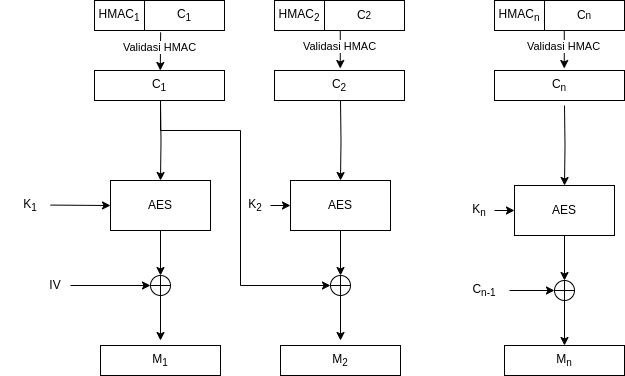
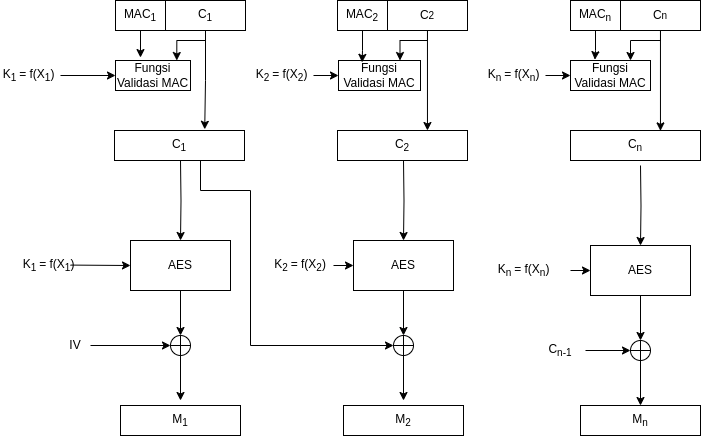
revisi bab 2 dan bab 3 sebelum sidang

diff --git a/src/chapters/chapter-2.tex b/src/chapters/chapter-2.tex
@@ -105,7 +105,7 @@ Menurut \textcite{munir2019}, Algoritma \emph{cipher} blok merupakan algoritma k
   Sumber: \textcite{munir2019}
 \end{figure}
 
-Salah satu bentuk mode blok yang sering digunakan dalam melakukan enkripsi adalah CBC. Menurut \textcite{munir2019}, mode enkripsi CBC menerapkan sistem enkripsi dengan cara memanfaatkan umpan balik dari hasil enkripsi blok sebelumnya. Nilai blok yang akan dienkripsi pertama-tama akan dilakukan XOR terlebih dahulu dengan umpan balik tersebut. Setelah itu, hasil XOR akan dienkripsi dengan kunci $K$. Nilai umpan balik awal disebut dengan $IV$. Nilai $IV$ tidak perlu dirahasiakan, tetapi perlu dibuat secara acak saat hendak melakukan proses enkripsi. Ilustrasi proses enkripsi menggunakan blok ini diilustrasikan pada figur \ref{fig:crypto.cbc.encrypt}, sedangkan ilustrasi proses dekripsi digambarkan pada figur \ref{fig:crypto.cbc.decrypt}. Secara matematis, proses ini ditunjukan pada persamaan \ref{eq:crypto.cbc.enc}.
+Salah satu bentuk mode blok yang sering digunakan dalam melakukan enkripsi adalah CBC. Menurut \textcite{munir2019}, mode enkripsi CBC menerapkan sistem enkripsi dengan cara memanfaatkan umpan balik dari hasil enkripsi blok sebelumnya. Nilai blok yang akan dienkripsi pertama-tama akan dilakukan XOR terlebih dahulu dengan umpan balik tersebut. Setelah itu, hasil XOR akan dienkripsi dengan kunci $K$. Nilai umpan balik awal disebut dengan $IV$. Nilai $IV$ tidak perlu dirahasiakan, tetapi perlu dibuat secara acak saat hendak melakukan proses enkripsi. Ilustrasi proses enkripsi menggunakan blok ini diilustrasikan pada gambar \ref{fig:crypto.cbc.encrypt}, sedangkan ilustrasi proses dekripsi digambarkan pada gambar \ref{fig:crypto.cbc.decrypt}. Secara matematis, proses ini ditunjukan pada persamaan \ref{eq:crypto.cbc.enc}.
 
 \begin{equation}
   \label{eq:crypto.cbc.enc}
@@ -118,7 +118,7 @@ Salah satu bentuk mode blok yang sering digunakan dalam melakukan enkripsi adala
 
 Menurut \textcite{munir2019}, terdapat keuntungan saat menggunakan mode blok CBC dalam melakukan enkripsi. Keuntungan utamanya adalah hasil enkripsi akan memberikan hasil cipherteks yang berbeda untuk plainteks yang sama. Hal ini disebabkan adanya persebaran informasi antar tiap blok sehingga hasil enkripsi kedua blok tersebut dapat berbeda. Akan tetapi, kelemahan utama mode blok ini adalah perubahan satu bit pada cipherteks dapat membalikan satu bit pada blok setelahnya. Hal ini dapat digunakan pihak lawan untuk melakukan \emph{bit-flip attack} dengan memanfaatkan sifat ini. 
 
-Menurut \textcite{munir2019}, algoritma kunci publik (atau bisa disebut algoritma kunci nirsimetris) merupakan algoritma enkripsi yang menggunakan kunci yang berbeda pada saat melakukan proses enkripsi dan juga proses dekripsi. Pada saat melakukan komunikasi menggunakan algoritma ini, pihak yang terlibat harus memiliki satu buah kunci, yaitu kunci publik dan kunci privat. Pengirim pesan akan menggunakan kunci publik untuk mengunci pesan. Akan tetapi, penerima menggunakan kunci privat miliknya untuk membuka pesan. Dengan menggunakan algoritma ini, hanya penerima pesan yang dapat membuka pesan. Ilustrasi terkait enkripsi memanfaatkan algoritma ini terdapat pada Gambar \ref{fig:crypto.asymetric}. Beberapa contoh algoritma enkripsi kunci publik adalah RSA, \emph{Elgamal}, dan DSA.
+Menurut \textcite{munir2019}, algoritma kunci publik (atau bisa disebut algoritma kunci nirsimetris) merupakan algoritma enkripsi yang menggunakan kunci yang berbeda pada saat melakukan proses enkripsi dan juga proses dekripsi. Pada saat melakukan komunikasi menggunakan algoritma ini, pihak yang terlibat harus memiliki satu buah kunci, yaitu kunci publik dan kunci privat. Pengirim pesan akan menggunakan kunci publik untuk mengunci pesan. Akan tetapi, penerima menggunakan kunci privat miliknya untuk membuka pesan. Dengan menggunakan algoritma ini, hanya penerima pesan yang dapat membuka pesan. Ilustrasi terkait enkripsi memanfaatkan algoritma ini terdapat pada gambar \ref{fig:crypto.asymetric}. Beberapa contoh algoritma enkripsi kunci publik adalah RSA, \emph{Elgamal}, dan DSA.
 
 \begin{figure}[!h]
   \centering
@@ -195,6 +195,34 @@ Berdasarkan \textcite{boris2003}, terdapat tiga buah syarat sebuah sistem matema
 
 Menurut \textcite{munir2019}, Salah satu sifat yang dimiliki oleh sistem \emph{chaos} adalah ia bersifat deterministik. Selain itu, sistem chaos memiliki ketidakteraturan yang tinggi dalam menghasilkan nilai. SIfat yang paling penting adalah peka terhadap nilai awal. Semua sifat ini dapat memberikan sifat difusi pada algoritma kriptografi dikarenakan sistem chaos ini dapat menghilangkan hubungan statistik pada ciperteks.
 
+Terdapat berbagai contoh dari sistem \emph{chaos} yang telah didefinisikan pada berbagai sumber. Menurut \textcite{munir2019}, Salah satu contoh fungsi \emph{chaos} yang sederhana adalah sistem \emph{chaos} berbasiskan persamaan logistik. Persamaan logistik didefinisikan pada persamaan \ref{eq:chaos.logistic}.
+
+\begin{equation}
+  \label{eq:chaos.logistic}
+  X_{n+1} = r X_n (1 - X_n)
+\end{equation}
+
+Pada persamaan \ref{eq:chaos.logistic}, nilai $r$ menyatakan laju pertumbuhan. Nilai $r$ menentukan kemunculan sifat chaos dari persamaan logistik. Berdasarkan \textcite{munir2019}, fungsi logistik sepenuhnya memiliki sifat chaos saat $r = 4$. Hal ini dikarenakan proses \emph{bifurcation} sangat cepat terjadi. Fenomena \emph{bifurcation} merupakan fenomena saat fungsi terpecah menjadi dua sehingga fungsi akan terus berosilasi pada dua populasi nilai tersebut. Saat proses  \emph{bifurcation} terjadi sangat cepat, sifat dari sistem akan sulit sekali diprediksi. Oleh karena itu, hal ini sangat cocok bila dimanfaatkan sebagai CSRPNG berbasis sistem \emph{chaos}.
+
+Selain sistem \emph{chaos} berbasiskan persamaan logistik, terdapat sistem chaos memanfaatkan peta hénon. Berdasarkan \textcite{henon1976}, persamaan peta hénon didefinisikan sebagaimana persamaan \ref{eq:chaos.henon}.
+
+\begin{equation}
+  \label{eq:chaos.henon}
+  \begin{array}{l}   
+  X_{n+1} = Y_{n} + 1 - aX_{n}^2 \\
+  Y_{n+1} = bX_{n} 
+  \end{array}
+\end{equation}
+
+Menurut \textcite{aybar2013}, untuk nilai $b = 0.3$ dihasilkan peta \emph{bifurcation} yang ditunjukan pada gambar \ref{fig:henon.bifurcation}. gambar \ref{fig:henon.bifurcation} memperlihatkan bahwa saat nilai $a$ mendekati $1.2$, sifat \emph{chaos} terjadi. Hal ini terjadi dikarenakan proses \emph{bifurcation} terjadi sangat cepat sehingga muncul sifat \emph{chaos} pada sistem tersebut.
+
+\begin{figure}[!h]
+  \centering
+  \includegraphics[width=\textwidth]{chapters/res/chapter-2/img/henon.bifurcation.png}
+  \caption{Diagram \emph{bifurcation} pada peta hénon dengan nilai $0.2 \ge a \ge 1.2$ dan $b = 0.3$} \label{fig:henon.bifurcation}
+  Sumber: \textcite{aybar2013}
+\end{figure}
+
 Menurut \textcite{munir2019}, untuk membangkitkan nilai bilangan bulat, sistem \emph{chaos} haruslah dilakukan konversi menuju bilangan bulat. Salah satu fungsi yang dapat digunakan dalam melakukan konversi ini dinyatakan pada persamaan \ref{eq:chaos.linearization}.
 
 \begin{equation}
@@ -214,13 +242,13 @@ Menurut \textcite{munir2019}, MAC merupakan perbaikan dari permasalahan yang mun
   Sumber: \textcite{munir2019}
 \end{figure}
 
-Menurut \textcite{munir2019}, MAC dapat digunakan sebagai otentikasi pesan tanpa perlu melakukan enkripsi pada pesan tersebut. Hal ini dapat dilakukan dengan cara melekatkan nilai MAC pada pesan yang dikirimkan. Proses tersebut digambarkan pada figur \ref{fig:mac}. Proses verifikasi pesan dilakukan dengan membandingkan nilai MAC dari pesan yang dihitung ulang berdasarkan pesan yang diterima dengan nilai MAC yang dikirimkan. Apabila pesan tidak diubah, kedua nilai ini menghasilkan nilai yang sama. Keuntungan menggunakan MAC ini adalah adanya nilai $K$ sehingga nilai hash yang dilekatkan pada pesan tidak secara mudah dapat diganti.
+Menurut \textcite{munir2019}, MAC dapat digunakan sebagai otentikasi pesan tanpa perlu melakukan enkripsi pada pesan tersebut. Hal ini dapat dilakukan dengan cara melekatkan nilai MAC pada pesan yang dikirimkan. Proses tersebut digambarkan pada gambar \ref{fig:mac}. Proses verifikasi pesan dilakukan dengan membandingkan nilai MAC dari pesan yang dihitung ulang berdasarkan pesan yang diterima dengan nilai MAC yang dikirimkan. Apabila pesan tidak diubah, kedua nilai ini menghasilkan nilai yang sama. Keuntungan menggunakan MAC ini adalah adanya nilai $K$ sehingga nilai hash yang dilekatkan pada pesan tidak secara mudah dapat diganti.
 
 \section{Penelitian Terkait}
 
 Penelitian terkait enkripsi dinamis telah dilakukan oleh beberapa pihak. Berikut ini adalah beberapa penelitian yang berkaitan dengan enkripsi dinamis. 
 
-\subsection{Sinkronisasi Kunci Dinamis berbasis Chaos den Aplikasinya pada Pengenkripsian Gambar dengan Algoritma AES yang diimprovisasi}
+\subsection{Sinkronisasi Kunci Dinamis berbasis Chaos den Aplikasinya pada Pengenkripsian gambar dengan Algoritma AES yang diimprovisasi}
 
 Menurut \textcite{lin2021}, kebutuhan keamanan data untuk berkomunikasi terus meningkat. Hal ini dikarenakan perkembangan sistem multimedia saat ini tentu terus berkembang. Salah satu variasi pengembangan algoritma enkripsi dan dekripsi yang berkembang saat ini menerapkan sinyal \emph{chaos}. 
 
@@ -288,7 +316,7 @@ Proses sinkronisasi sistem \emph{chaos} dapat dilakukan dengan mendekomposisi ni
   Sumber: \textcite{lin2021}
 \end{figure}
 
-Pengujian dari sistem yang dilakukan oleh \textcite{lin2021} adalah dengan cara membandingkan proses enkripsi gambar yang dihasilkan memanfaatkan AES-ECB, AES-CBC, dan CAES-EBC. Gambar yang diuji merupakan gambar berukuran $256 \times 256$. Pada algoritma CAES, kunci dinamis yang dihasilkan sebanyak 49.152 kunci. Setiap kunci ini dibuat secara langsung melalui proses \emph{update} pada setiap \emph{round} enkripsi. Hasil enkripsi pada figur \ref{fig:lin.result} menunjukan bahwa CAES-ECB bila diobservasi secara visual memiliki kualitas yang cukup baik bila dibandingkan dengan AES-EBC. Menurut \textcite{lin2021}, Hal ini dapat membuktikan bahwa algoritma CAES-CBC lebih unggul dibandingkan AES-EBC dan AES-CBC.
+Pengujian dari sistem yang dilakukan oleh \textcite{lin2021} adalah dengan cara membandingkan proses enkripsi gambar yang dihasilkan memanfaatkan AES-ECB, AES-CBC, dan CAES-EBC. gambar yang diuji merupakan gambar berukuran $256 \times 256$. Pada algoritma CAES, kunci dinamis yang dihasilkan sebanyak 49.152 kunci. Setiap kunci ini dibuat secara langsung melalui proses \emph{update} pada setiap \emph{round} enkripsi. Hasil enkripsi pada gambar \ref{fig:lin.result} menunjukan bahwa CAES-ECB bila diobservasi secara visual memiliki kualitas yang cukup baik bila dibandingkan dengan AES-EBC. Menurut \textcite{lin2021}, Hal ini dapat membuktikan bahwa algoritma CAES-CBC lebih unggul dibandingkan AES-EBC dan AES-CBC.
 
 \begin{figure}[!h]
   \centering
@@ -297,7 +325,7 @@ Pengujian dari sistem yang dilakukan oleh \textcite{lin2021} adalah dengan cara 
   Sumber: \textcite{lin2021}
 \end{figure}
 
-Proses enkripsi tersebut juga dilakukan proses pengujian secara analitik. Tes yang dilakukan berdasarkan parameter uji yang telah didefinisikan oleh National Institute of Standards and Technology (NIST). Pengujian yang dilakukan oleh \textcite{lin2021} menggunakan data \emph{stream} sepanjang 10.000.000 bit data dengan jumlah biat setiap stream sebesar 30. Hasil tersebut menunjukan bahwa algoritma CAES memenuhi persyaranan NIST SP 800-22 \emph{random number detection}. Hasil dari pengujian NIST juga menunjukan bahwa algoritma CAES lebih unggul dibandingkan dengan AES-CBC dan AES-EBC. Hal ini ditunjukan dengan data pada figur \ref{fig:lin.analytic-result}.
+Proses enkripsi tersebut juga dilakukan proses pengujian secara analitik. Tes yang dilakukan berdasarkan parameter uji yang telah didefinisikan oleh National Institute of Standards and Technology (NIST). Pengujian yang dilakukan oleh \textcite{lin2021} menggunakan data \emph{stream} sepanjang 10.000.000 bit data dengan jumlah biat setiap stream sebesar 30. Hasil tersebut menunjukan bahwa algoritma CAES memenuhi persyaranan NIST SP 800-22 \emph{random number detection}. Hasil dari pengujian NIST juga menunjukan bahwa algoritma CAES lebih unggul dibandingkan dengan AES-CBC dan AES-EBC. Hal ini ditunjukan dengan data pada gambar \ref{fig:lin.analytic-result}.
 
 \begin{figure}[!h]
   \centering
@@ -306,7 +334,7 @@ Proses enkripsi tersebut juga dilakukan proses pengujian secara analitik. Tes ya
   Sumber: \textcite{lin2021}
 \end{figure}
 
-\subsection{Enkripsi Gambar dan Analisisnya memanfaatkan Algoritma AES dinamis}
+\subsection{Enkripsi gambar dan Analisisnya memanfaatkan Algoritma AES dinamis}
 
 Pada penelitian yang dilakukan oleh \textcite{singh2019}, kedinamisan proses enkripsi dilakukan pada S-box. Pada penelitian ini, S-box yang dimiliki oleh AES akan dipermutasi. Terdapat tiga parameter yang digunakan dalam pembentukan S-box ini, yaitu sebagai berikut:
 \begin{enumerate}
@@ -321,7 +349,7 @@ Pada penelitian \textcite{singh2019}, algoritma enkripsi yang telah dijelaskan s
 
 \subsection{Perbaikan Keamanan dari Algoritma AES memanfaatkan \emph{Salt} Dinamis}
 
-Pada penelitian yang dilakukan oleh \textcite{bachtiar2018}, proses enkripsi dinamis dilakukan dengan cara menambahkan \emph{salt} pada pesan yang akan dienkripsi. Nilai \emph{salt} dibuat berdasarkan hasil dari algortima \emph{Linear Congruental Generator} (LCG). Secara global, proses enkripsi dilakukan dengan melakukan proses enkripsi dinamis terlebih dahulu. Setelah itu, proses enkripsi akan dilakukan dengan melakukan AES pada pesan yang telah dilakukan enkripsi dinamis. Proses ini dapat digambarkan pada figur \ref{fig:bachtiar.enc.process}.
+Pada penelitian yang dilakukan oleh \textcite{bachtiar2018}, proses enkripsi dinamis dilakukan dengan cara menambahkan \emph{salt} pada pesan yang akan dienkripsi. Nilai \emph{salt} dibuat berdasarkan hasil dari algortima \emph{Linear Congruental Generator} (LCG). Secara global, proses enkripsi dilakukan dengan melakukan proses enkripsi dinamis terlebih dahulu. Setelah itu, proses enkripsi akan dilakukan dengan melakukan AES pada pesan yang telah dilakukan enkripsi dinamis. Proses ini dapat digambarkan pada gambar \ref{fig:bachtiar.enc.process}.
 
 \begin{figure}[!h]
   \centering

diff --git a/src/chapters/chapter-3.tex b/src/chapters/chapter-3.tex
@@ -29,18 +29,24 @@ Dalam melakukan verifikasi pesan, dapat dilakukan sebuah metode yaitu dengan car
 
 \section{Gambaran Solusi}
 
-Proses enkripsi dan dekripsi yang dilakukan pada protokol yang akan dibangun digambarkan pada figur \ref{fig:solution.encrypt} dan \ref{fig:solution.decrypt}. Mode blok enkripsi yang akan digunakan adalah \emph{cipher block chaining} (CBC). Setiap blok pesan yang dikirimkan akan diberikan sebuah MAC sebagai otentikasi dari pesan yang dikirimkan. Apabila dalam pengiriman blok mengalami kegagalan dikarenakan kegagalan otentikasi, pesan akan diretransmisi ulang. 
-
-Dalam melakukan pengiriman, pembangkitan kunci baru pada sisi pengirim dilakukan saat telah melakukan enkripsi dalam suatu blok. Pada sisi penerima, pembangkitan kunci dilakukan setelah menerima blok baru. 
+Proses enkripsi dan dekripsi yang dilakukan pada protokol yang akan dibangun digambarkan pada gambar \ref{fig:solution.encrypt} dan \ref{fig:solution.decrypt}. Mode blok enkripsi yang akan digunakan adalah \emph{cipher block chaining} (CBC). Setiap blok pesan yang dikirimkan akan diberikan sebuah MAC sebagai otentikasi dari pesan yang dikirimkan. Apabila dalam pengiriman blok mengalami kegagalan dikarenakan kegagalan otentikasi, pesan akan diretransmisi ulang. Pembangkitan kunci pada protokol ini akan memanfaatkan sistem \emph{chaos} yang didefinisikan pada persamaan \ref{eq:lin.henon.master}.
 
 \begin{figure}[!h]
   \centering
   \includegraphics[width=250px]{chapters/res/chapter-3/img/encrypt.png}
-  \caption{Enkripsi Pesan secara Dinamis} \label{fig:solution.encrypt}
+  \caption{Enkripsi pesan secara dinamis Untuk pesan yang dikirimkan dari Alice menuju Bob} \label{fig:solution.encrypt}
 \end{figure}
 
 \begin{figure}[!h]
   \centering
-  \includegraphics[width=250px]{chapters/res/chapter-3/img/encrypt.png}
-  \caption{Dekripsi Pesan secara Dinamis} \label{fig:solution.decrypt}
+  \includegraphics[width=250px]{chapters/res/chapter-3/img/decrypt.png}
+  \caption{Dekripsi pesan secara dinamis untuk pesan yang dikirimkan dari Alice menuju Bob} \label{fig:solution.decrypt}
 \end{figure}
+
+Pada proses awal komunikasi, akan dibentuk dua buah sistem \emph{chaos} melalui mekanisme pertukaran kunci \emph{diffie-hellman}. Kedua belah pihak akan melakukan pertukaran kunci memanfaatkan \emph{Diffie-Hellman}. Nilai hasil pertukaran kunci akan digunakan sebagai parameter awal nilai $(X_1, Y_1, Z_1)$ untuk sistem $S_1$ dan $(A_1, B_1, C_1)$ pada sistem chaos $S_2$. Hal ini dapat diperoleh dengan melakukan \emph{sclicing} bit hasil pertukaran kunci. Parameter $(X_1, Y_1, Z_1)$ dan $(A_1, B_1, C_1)$ bersifat rahasia. Penentuan nilai $IV$ akan ditentukan oleh pengirim pesan. Nilai ini akan dibuat secara acak memanfaatkan \emph{secure random} yang disediakan pada sistem operasi. Nilai $IV$  tidak bersifat rahasia.
+
+Saat proses pertukaran kunci berhasil dan sistem \emph{chaos} berhasil dibuat, proses komunikasi akan dimulai. Misalkan, terdapat dua pihak yang melakukan komunikasi, yaitu Alice dan Bob. Sistem \emph{chaos} $S_1$ akan digunakan saat pengiriman data berlangsung dari Alice menuju Bob.  Sebaliknya, sistem \emph{chaos} $S_2$ akan digunakan saat pengiriman data berlangsung dari Bob menuju Alice.
+
+Misalkan, pengriman data berlangsung dari Alice menuju Bob. Alice akan mengenkripsi blok $M_i$ menggunakan nilai $K_i$. Nilai $K_i$ dihasilkan berdasarkan hasil konversi nilai $X_i$ pada sistem $S_1$ menjadi bilangan bulat melalui fungsi $f$. Setelah pesan dienkripsi menjadi $C_i$, akan dihitung nilai MAC dengan kunci $K_i$ untuk $C_i$ dan disematkan pada $C_i$. Proses enkripsi berlangsung sebagaimana gambar \ref{fig:solution.encrypt}. Nilai $(X_{i+1}, Y_{i+1}, Z_{i+1})$ pada Alice akan dihitung apabila pesan $M_i$ berhasil dienkripsi menjadi $C_i$.  
+
+Saat bob menerima pesan, bob akan memeriksa keabsahan data melalui MAC. Bob akan menghitung nilai $(X_i, Y_i, Z_i)$ dan membantuk nilai $K_i$. Setelah itu, Bob akan menghitung MAC $C_i$ dan membandingkannya dengan nilai MAC yang dikirimkan oleh Alice. Apabila nilai MAC sama, nilai $(X_{i-1}, Y_{i-1}, Z_{i-1})$ akan dihapus pada Bob. Selanjutnya, proses dekripsi dilakukan sebagaimana yang dijelaskan pada gambar \ref{fig:solution.decrypt}.

diff --git a/src/chapters/appendix/appendix-1.tex b/src/chapters/appendix/appendix-1.tex
@@ -1,14 +1,14 @@
-\chapter{{{Prototipe Protokol Komunikasi Memanfaatkan Sistem \emph{Chaos}}}} 
-\label{appendix:protokol}
+% \chapter{{{Prototipe Protokol Komunikasi Memanfaatkan Sistem \emph{Chaos}}}} 
+% \label{appendix:protokol}
 
-Figur \ref{fig:solution.protocol} merupakan prototipe protokol komunikasi memanfaatkan sistem \emph{chaos}. Pada awal komunikasi, akan dilakukan pertukaran kunci memanfaatkan algoritma \emph{Diffie-Hellman}. Selanjutnya, akan dikirimkan pesan hello oleh Alice dan Bob. Hal ini dilakukan untuk memverifikasi bahwa kedua pihak telah memiliki status kunci yang sama dalam melakukan enkripsi dan dekripsi. Apabila terjadi kegagalan pada tahap ini, koneksi harus diputus dan dibentuk koneksi yang baru.
+% Figur \ref{fig:solution.protocol} merupakan prototipe protokol komunikasi memanfaatkan sistem \emph{chaos}. Pada awal komunikasi, akan dilakukan pertukaran kunci memanfaatkan algoritma \emph{Diffie-Hellman}. Selanjutnya, akan dikirimkan pesan hello oleh Alice dan Bob. Hal ini dilakukan untuk memverifikasi bahwa kedua pihak telah memiliki status kunci yang sama dalam melakukan enkripsi dan dekripsi. Apabila terjadi kegagalan pada tahap ini, koneksi harus diputus dan dibentuk koneksi yang baru.
 
-\begin{figure}[!h]
-  \centering
-  \includegraphics[width=200px]{chapters/res/chapter-3/img/protocol.png}
-  \caption{Protokol Pengiriman Pesan} \label{fig:solution.protocol}
-\end{figure}
+% \begin{figure}[!h]
+%   \centering
+%   \includegraphics[width=200px]{chapters/res/chapter-3/img/protocol.png}
+%   \caption{Protokol Pengiriman Pesan} \label{fig:solution.protocol}
+% \end{figure}
 
-Pada saat pengiriman data, Alice memanfaatkan sistem \emph{chaos} $K_1$, sedangkan Bob memanfaatkan sistem \emph{chaos} $K_2$. Pada saat mengirim data, Alice akan melakukan enkripsi pesan pada blok $n$. Setelah melakukan enkripsi, Alice akan memperbaharui sistem chaosnya. Setelah memperbaharui, Alice akan mengirimkan pesan blok $n$. Alice akan menunggu hingga pesan ACK dari Bob diterima sebelum mengirimkan blok selanjutnya. Alice akan mengirimkan kembali pesan blok $n$ bila belum mendapatkan ACK dalam waktu tertentu atau menerima pesan error.
+% Pada saat pengiriman data, Alice memanfaatkan sistem \emph{chaos} $K_1$, sedangkan Bob memanfaatkan sistem \emph{chaos} $K_2$. Pada saat mengirim data, Alice akan melakukan enkripsi pesan pada blok $n$. Setelah melakukan enkripsi, Alice akan memperbaharui sistem chaosnya. Setelah memperbaharui, Alice akan mengirimkan pesan blok $n$. Alice akan menunggu hingga pesan ACK dari Bob diterima sebelum mengirimkan blok selanjutnya. Alice akan mengirimkan kembali pesan blok $n$ bila belum mendapatkan ACK dalam waktu tertentu atau menerima pesan error.
 
-Bob akan menerima data dari Alice. Apabila pesan memiliki HMAC yang benar, bob akan melakukan dekripsi. Setelah dekripsi berhasil, Bob akan mengirimkan ACK menuju Alice. Sistem \emph{chaos} Bob diperbaharui pada saat bob mendapatkan pesan blok $n+1$ yang valid.
+% Bob akan menerima data dari Alice. Apabila pesan memiliki HMAC yang benar, bob akan melakukan dekripsi. Setelah dekripsi berhasil, Bob akan mengirimkan ACK menuju Alice. Sistem \emph{chaos} Bob diperbaharui pada saat bob mendapatkan pesan blok $n+1$ yang valid.

diff --git a/src/thesis.tex b/src/thesis.tex
@@ -57,7 +57,7 @@
 \renewcommand{\bibname}{DAFTAR REFERENSI}
 
 \tableofcontents
-\listofappendices
+% \listofappendices
 \listoffigures
 \listoftables
 
@@ -97,7 +97,7 @@
 \titleformat*{\section}{\bfseries}
 
 % Index
-\appendix
-\input{chapters/appendix/appendix-1}
+% \appendix
+% \input{chapters/appendix/appendix-1}
 
 \end{document}
